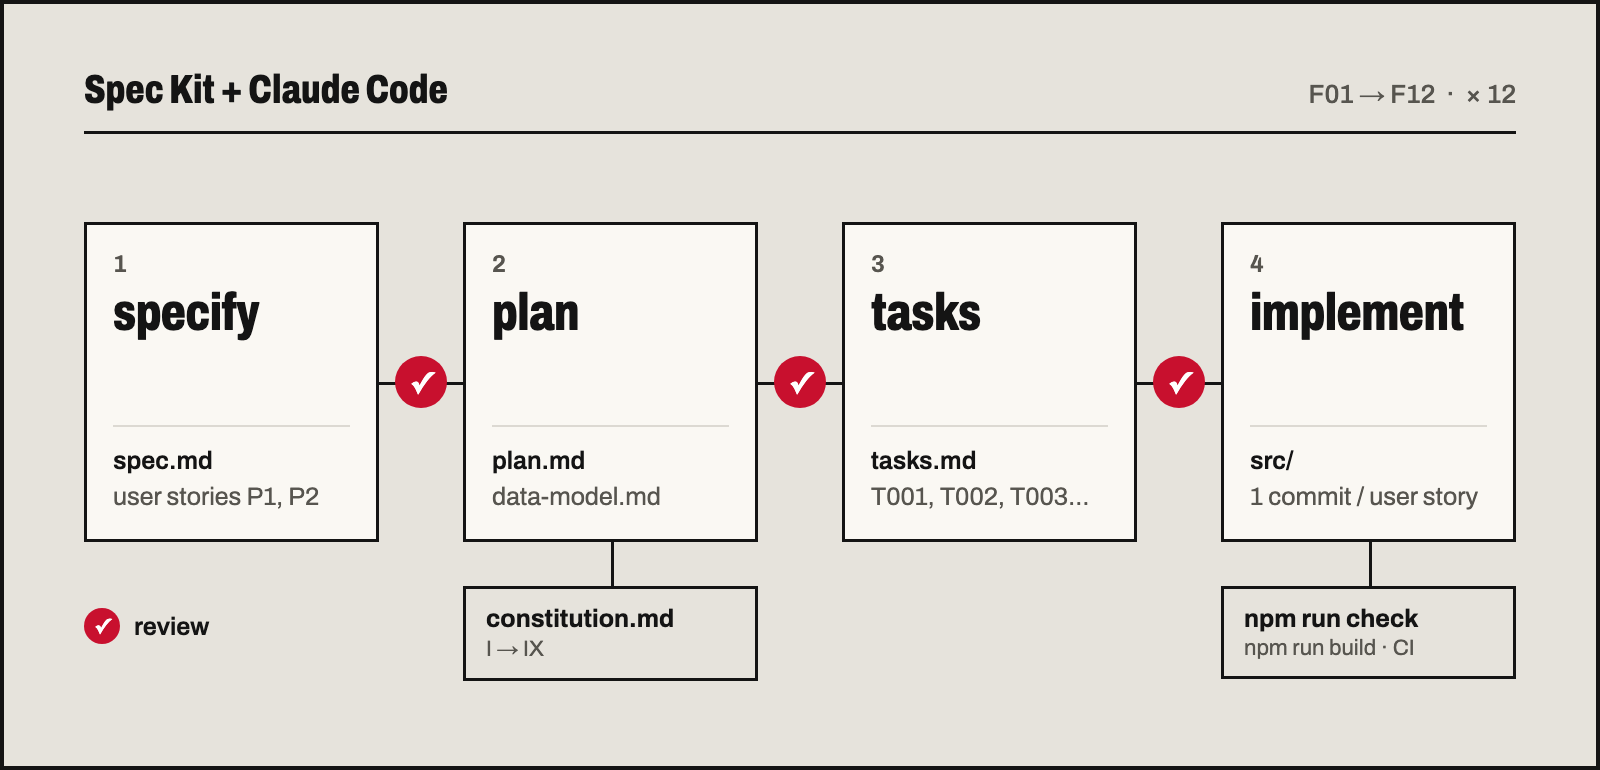
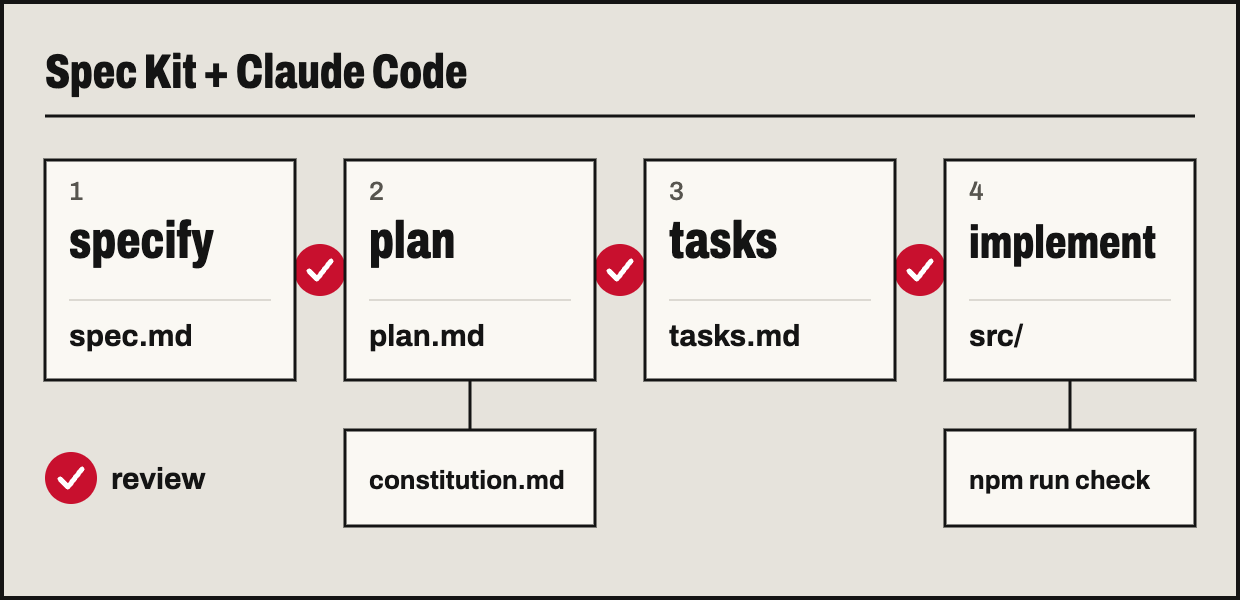
content: lighten the portfolio workflow diagram

diff --git a/src/content/projects/fr/portfolio.md b/src/content/projects/fr/portfolio.md
@@ -33,7 +33,7 @@ Ajouter un projet demandait de modifier 3 composants Vue. Le design tenait dans 
 
 J'ai découpé le site en 12 features de base et confié chacune à Claude Code avec Spec Kit, en 4 étapes. Je relis chacune des 4 étapes avant de lancer la suivante.
 
-![Schéma des 4 étapes de Spec Kit avec le fichier produit par chacune, une relecture entre deux étapes, la constitution vérifiée au plan et les commandes check et build après le code](../../../assets/projects/portfolio-workflow.png 'Les 4 étapes de Spec Kit, répétées pour chacune des 12 features. Chaque coche rouge est une relecture de ma part.')
+![Schéma des 4 étapes de Spec Kit avec le fichier produit par chacune, une relecture entre deux étapes, la constitution vérifiée au plan et la commande check après le code](../../../assets/projects/portfolio-workflow.png 'Les 4 étapes de Spec Kit, répétées pour chacune des 12 features. Chaque coche rouge est une relecture de ma part.')
 
 > ! Une constitution de 9 principes, dont « simplicité d'abord » (KISS, YAGNI) et « qualité vérifiable », est vérifiée à chaque plan.
 

diff --git a/src/content/projects/en/portfolio.md b/src/content/projects/en/portfolio.md
@@ -17,7 +17,7 @@ Adding a project meant editing 3 Vue components. The design lived in 8 CSS files
 
 I split the site into 12 base features and gave each one to Claude Code through Spec Kit, in 4 steps. I review each of the 4 steps before starting the next.
 
-![Diagram of the 4 Spec Kit steps with the file each one produces, a review between two steps, the constitution checked at the plan, and the check and build commands after the code](../../../assets/projects/portfolio-workflow.png 'The 4 Spec Kit steps, repeated for each of the 12 features. Every red tick is a review of mine.')
+![Diagram of the 4 Spec Kit steps with the file each one produces, a review between two steps, the constitution checked at the plan, and the check command after the code](../../../assets/projects/portfolio-workflow.png 'The 4 Spec Kit steps, repeated for each of the 12 features. Every red tick is a review of mine.')
 
 > ! A constitution of 9 principles, including "simplicity first" (KISS, YAGNI) and "verifiable quality", is checked against every plan.
 
